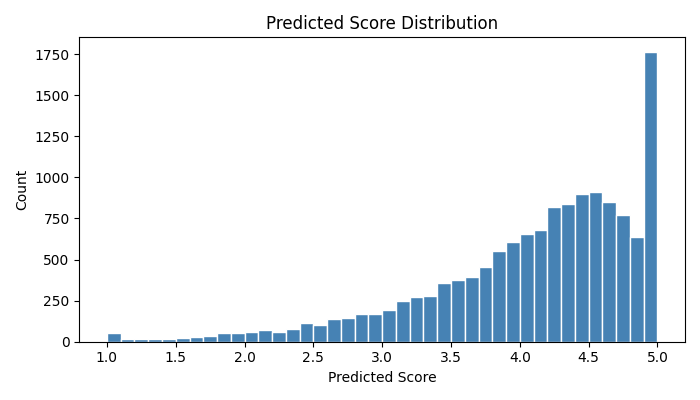
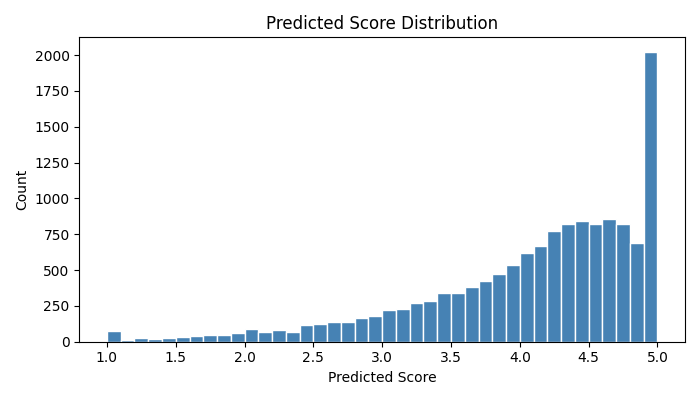
Added improved min_df=2  Added a third TfidfVectorizer with analyzer='char_wb', ngram_range=(3,5), max_features=20000 on the Text column
Validation cell — adds tfidf_char_val, fits on train fold only, hstacks into X_text_tr/va

diff --git a/src/features.py b/src/features.py
@@ -209,7 +209,7 @@ def prepare_training_data(training_df, text_column="Text", max_features=30000, n
 
     base_tfidf_kwargs = dict(
         lowercase=True, stop_words=stop_words, ngram_range=ngram_range,
-        min_df=3, max_df=0.9, sublinear_tf=True, norm="l2",
+        min_df=2, max_df=0.9, sublinear_tf=True, norm="l2",
         smooth_idf=True, use_idf=True,
     )
 
@@ -217,10 +217,21 @@ def prepare_training_data(training_df, text_column="Text", max_features=30000, n
     tfidf_summary = TfidfVectorizer(max_features=10000, **base_tfidf_kwargs)
     tfidf_text    = TfidfVectorizer(max_features=max_features, **base_tfidf_kwargs)
 
-    X_summary = tfidf_summary.fit_transform(labeled["Summary"].fillna("").astype(str))
+    # Character n-grams on Text (3–5): catch morphological patterns like "terribl", "excellen"
+    # char_wb pads within word boundaries so n-grams don't cross word boundaries
+    tfidf_char = TfidfVectorizer(
+        analyzer="char_wb", ngram_range=(3, 5),
+        min_df=5, max_df=0.9, sublinear_tf=True, norm="l2",
+        max_features=20000, lowercase=True,
+    )
+
+    X_summary   = tfidf_summary.fit_transform(labeled["Summary"].fillna("").astype(str))
     X_text_body = tfidf_text.fit_transform(labeled["Text"].fillna("").astype(str))
-    X_text = hstack([X_summary, X_text_body])
-    print("Summary TF-IDF:", X_summary.shape, " Text TF-IDF:", X_text_body.shape)
+    X_char      = tfidf_char.fit_transform(labeled["Text"].fillna("").astype(str))
+    X_text = hstack([X_summary, X_text_body, X_char])
+    print("Summary TF-IDF:", X_summary.shape,
+          " Text TF-IDF:", X_text_body.shape,
+          " Char n-grams:", X_char.shape)
 
     # LSA on the combined sparse matrix
     svd = TruncatedSVD(n_components=200, random_state=42)
@@ -233,10 +244,10 @@ def prepare_training_data(training_df, text_column="Text", max_features=30000, n
     X_lsa_sparse = csr_matrix(X_lsa)
     X = hstack([X_num_sparse, X_bias_sparse, X_text, X_lsa_sparse])
 
-    return X, y, tfidf_summary, tfidf_text, svd, numeric_columns, labeled
+    return X, y, tfidf_summary, tfidf_text, tfidf_char, svd, numeric_columns, labeled
 
 
-def prepare_test_data(test_df, tfidf_summary, tfidf_text, svd, numeric_columns, labeled_df):
+def prepare_test_data(test_df, tfidf_summary, tfidf_text, tfidf_char, svd, numeric_columns, labeled_df):
     # Bias features: compute from labeled data, apply to test
     bias = build_bias_features(labeled_df, test_df)
 
@@ -248,7 +259,8 @@ def prepare_test_data(test_df, tfidf_summary, tfidf_text, svd, numeric_columns, 
 
     X_summary   = tfidf_summary.transform(test_df["Summary"].fillna("").astype(str))
     X_text_body = tfidf_text.transform(test_df["Text"].fillna("").astype(str))
-    X_text = hstack([X_summary, X_text_body])
+    X_char      = tfidf_char.transform(test_df["Text"].fillna("").astype(str))
+    X_text = hstack([X_summary, X_text_body, X_char])
 
     X_lsa = svd.transform(X_text)
     X_lsa = Normalizer(copy=False).fit_transform(X_lsa)
